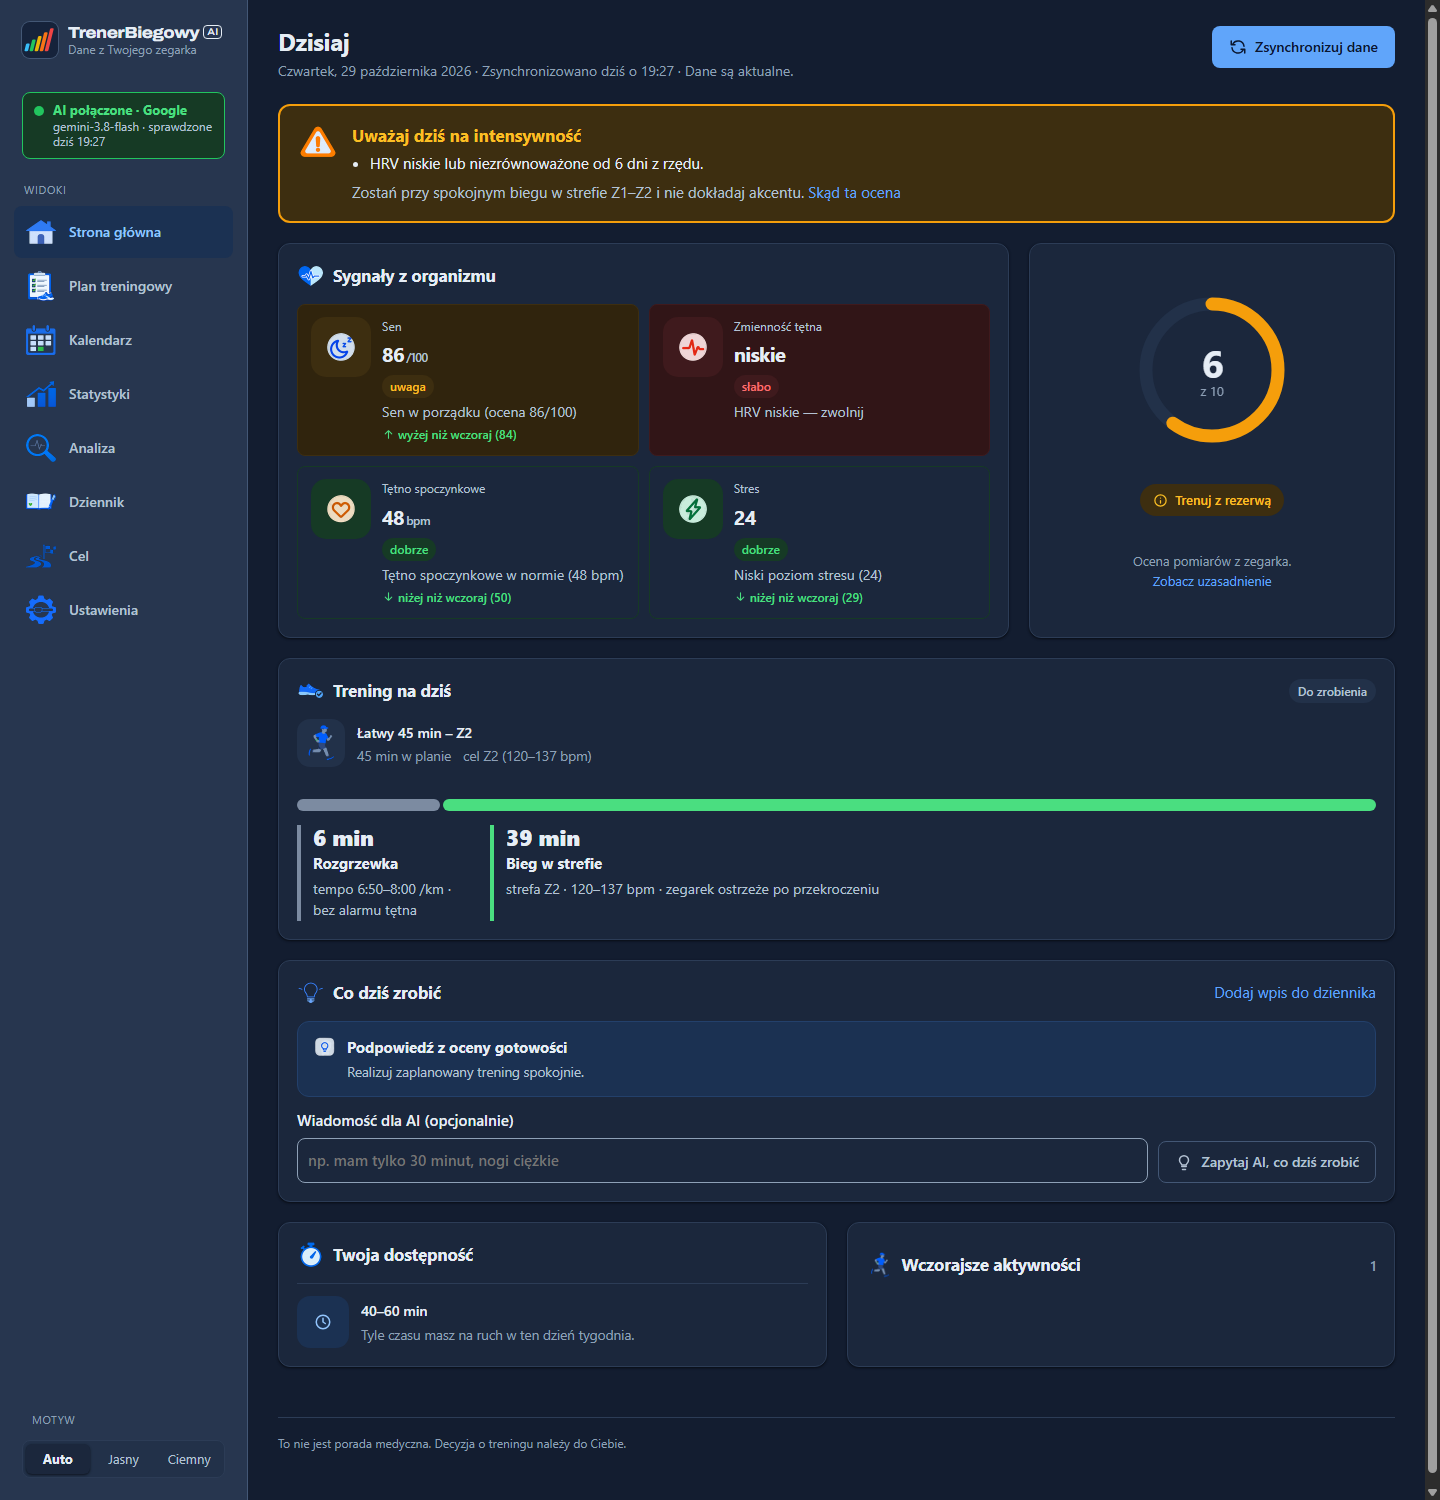
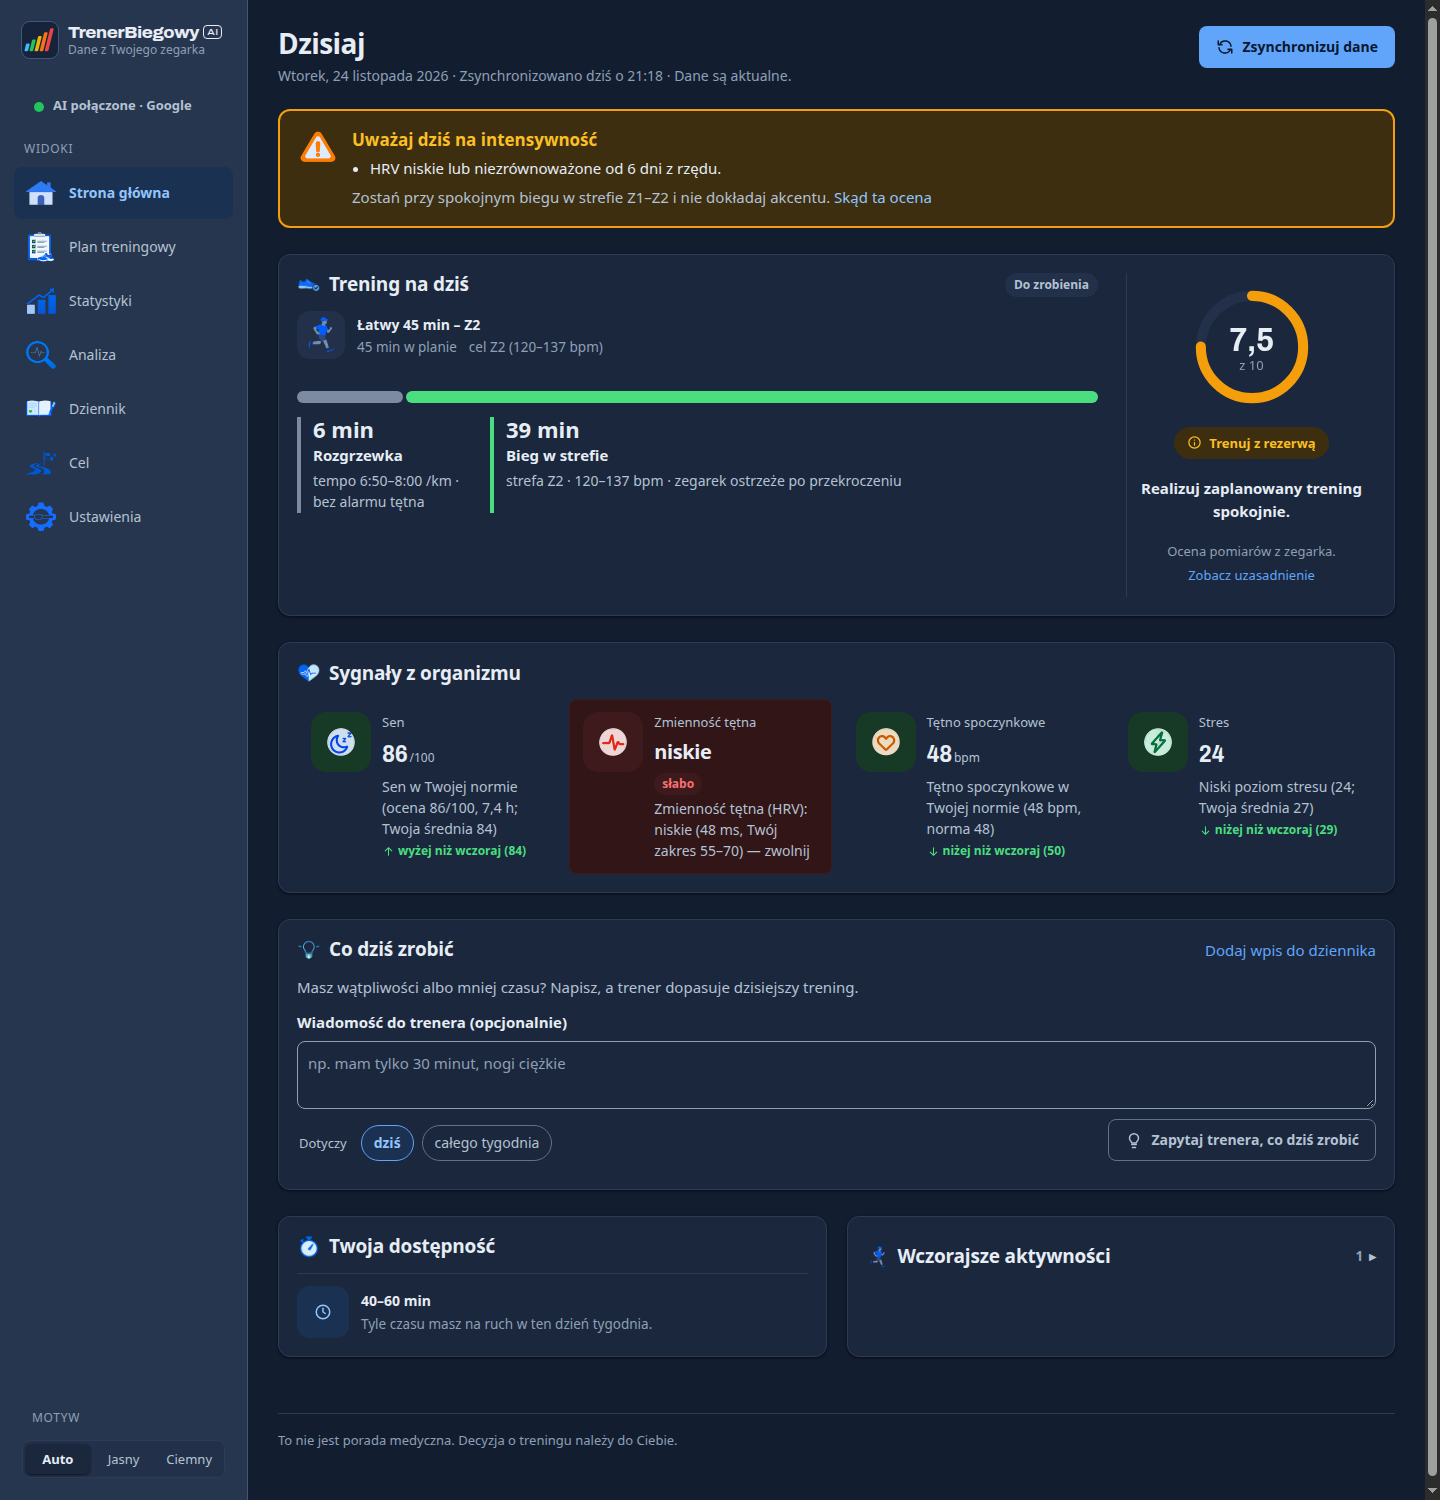
Polish modal/SVG charts, clarify HRV label, update README shots, and ignore local tooling

diff --git a/templates/stats.html b/templates/stats.html
@@ -98,6 +98,7 @@
           {% for bar in chart.bars if bar.band %}
             <rect class="chart-band" x="{{ bar.band.x }}" y="{{ bar.band.y }}" width="{{ bar.band.width }}" height="{{ bar.band.height }}"/>
           {% endfor %}
+          {% if chart.band_label %}<text class="chart-axis chart-band-label" x="{{ chart.grid_end }}" y="{{ chart.band_label_y }}" text-anchor="end">{{ chart.band_label }}</text>{% endif %}
           {% for bar in chart.bars %}
             <rect class="chart-bar{% if bar.is_current %} current{% endif %}"
                   x="{{ bar.x }}" y="{{ bar.y }}" width="{{ bar.width }}" height="{{ bar.height }}" rx="6"/>
@@ -209,6 +210,7 @@
                 {% for points in chart.lines %}<polyline class="chart-line" points="{{ points }}"/>{% endfor %}
                 {% for dot in chart.dots %}<circle class="chart-dot" cx="{{ dot.x }}" cy="{{ dot.y }}" r="3"/>{% endfor %}
                 <circle class="chart-dot today" cx="{{ chart.last.x }}" cy="{{ chart.last.y }}" r="4"/>
+                {% for pt in chart.hover_points %}<circle class="chart-hit" cx="{{ pt.x }}" cy="{{ pt.y }}" r="6"><title>{{ pt.label }}: {{ pt.value }}{% if metric.unit %} {{ metric.unit }}{% endif %}</title></circle>{% endfor %}
                 {% for label in chart.labels %}
                   <text class="chart-axis" x="{{ label.x }}" y="{{ chart.label_y }}" text-anchor="middle">{{ label.text }}</text>
                 {% endfor %}

diff --git a/static/css/styles.css b/static/css/styles.css
@@ -765,6 +765,9 @@ details[open] > summary .disclosure-cue { transform: rotate(90deg); }
 .workout-dialog-head p { margin: 0; }
 .workout-edit { margin-top: 18px; padding-top: 14px; border-top: 1px solid var(--border); display: grid; gap: 10px; }
 .workout-edit h4, .workout-edit p { margin: 0; }
+.workout-edit .field.inline { white-space: nowrap; flex: 1 1 auto; }
+.workout-edit select.text-input { flex: 1 1 180px; min-width: 0; }
+.workout-delete { margin-top: 6px; padding-top: 12px; border-top: 1px solid var(--border); }
 .workout-dialog h3 { margin: 2px 0 0; font-size: 1.25rem; }
 .workout-dialog h4 { margin: 18px 0 6px; font-size: 0.875rem; color: var(--fg-mid); text-transform: uppercase; letter-spacing: 0.04em; }
 .workout-dialog p { font-size: 16px; line-height: 1.6; max-width: 62ch; white-space: pre-line; margin: 0; }
@@ -797,6 +800,8 @@ details[open] > summary .disclosure-cue { transform: rotate(90deg); }
 .chart-dot.distance { fill: var(--fg); stroke: var(--surface); stroke-width: 2; }
 .legend-swatch.distance { background: var(--fg); border-radius: 999px; }
 .chart-band { fill: var(--ok-icon); fill-opacity: 0.12; stroke: none; }
+.chart-band-label { fill: var(--ok-fg); font-weight: 600; }
+.chart-hit { fill: transparent; }
 .chart-avg { stroke: var(--fg-muted); stroke-width: 1; stroke-dasharray: 4 4; }
 .chart-data { margin-top: 12px; overflow-x: auto; }
 .chart-data summary { cursor: pointer; }

diff --git a/templates/plan.html b/templates/plan.html
@@ -401,7 +401,7 @@
                           <button type="submit" name="action" value="easier" class="btn-secondary">Zamień na spokojny bieg</button>
                         </form>
                         {% endif %}
-                        <p><a class="btn btn-danger-outline" href="/plan?week={{ week_start }}&amp;remove={{ plan_day.date }}#usun" aria-label="Usuń trening {{ plan_day.name }}">Usuń trening z planu</a></p>
+                        <p class="workout-delete"><a class="btn btn-danger-outline" href="/plan?week={{ week_start }}&amp;remove={{ plan_day.date }}#usun" aria-label="Usuń trening {{ plan_day.name }}">Usuń trening z planu</a></p>
                       </div>
                     {% endif %}
                   </div>

diff --git a/api/views/stats.py b/api/views/stats.py
@@ -93,7 +93,7 @@ def _weekly_chart(weekly) -> dict | None:
         "bars": bars,
         "has_bands": any(bar["band"] for bar in bars),
         "band_label": f"cel fazy: {current_band[0]}–{current_band[1]} km/tydz." if current_band else None,
-        "band_label_y": round(y_of(current_band[1]) - 6, 2) if current_band else None,
+        "band_label_y": max(14, round(y_of(current_band[1]) - 6, 2)) if current_band else None,
     }
 
 
@@ -184,7 +184,7 @@ def _line_chart(trend, domain=None, min_span=0) -> dict | None:
     def y_of(value):
         return round(_PAD_TOP + (1 - (value - low) / (high - low)) * inner_height, 2)
 
-    segments, current, dots, labels = [], [], [], []
+    segments, current, dots, labels, hover_points = [], [], [], [], []
     for index, (day, value) in enumerate(trend.points):
         x = round(_PAD_LEFT + inner_width * index / steps, 2)
         if index % 7 == 0:
@@ -194,7 +194,9 @@ def _line_chart(trend, domain=None, min_span=0) -> dict | None:
                 segments.append(current)
             current = []
             continue
-        current.append((x, y_of(value)))
+        y = y_of(value)
+        current.append((x, y))
+        hover_points.append({"x": x, "y": y, "label": _short_date(day), "value": _format_number(value)})
     if current:
         segments.append(current)
 
@@ -217,6 +219,7 @@ def _line_chart(trend, domain=None, min_span=0) -> dict | None:
         "gridlines": [{"y": y_of(value), "label": _format_number(value, 0)} for value in (low, middle, high)],
         "lines": lines,
         "dots": dots,
+        "hover_points": hover_points,
         "last": {"x": last_x, "y": last_y},
         "average_y": y_of(trend.average) if trend.average is not None else None,
         "labels": labels,

diff --git a/api/views/today.py b/api/views/today.py
@@ -101,6 +101,13 @@ def _next_workout_view(workout, today: str) -> dict | None:
             "hr_zone": workout.get("hr_zone"), "garmin_upload": bool(workout.get("garmin_upload"))}
 
 
+def _signal_description(metric: str, message: str | None) -> str | None:
+    """Rozwiń skrót HRV w opisie kafelka na stronie głównej, bez ruszania tekstów silnika."""
+    if metric == "HRV" and isinstance(message, str) and message.startswith("HRV "):
+        return f"Zmienność tętna (HRV): {message[4:]}"
+    return message
+
+
 def _signal_cards(report) -> list:
     """Zbuduj kafelki sygnałów z tej samej oceny, która wyznaczyła wynik gotowości."""
     readiness_data = cast(dict, report.readiness) or {}
@@ -126,7 +133,7 @@ def _signal_cards(report) -> list:
             "icon": meta["icon"],
             "asset": meta["asset"],
             "value": value,
-            "description": details.get(metric, {}).get("message"),
+            "description": _signal_description(metric, details.get(metric, {}).get("message")),
             "state_class": _SIGNAL_STATE_CLASSES.get(status, "none"),
             "state_label": _SIGNAL_STATE_LABELS.get(status, "brak danych"),
             "trend": _trend_view(trends.get(trend_key)) if trend_key else None,
